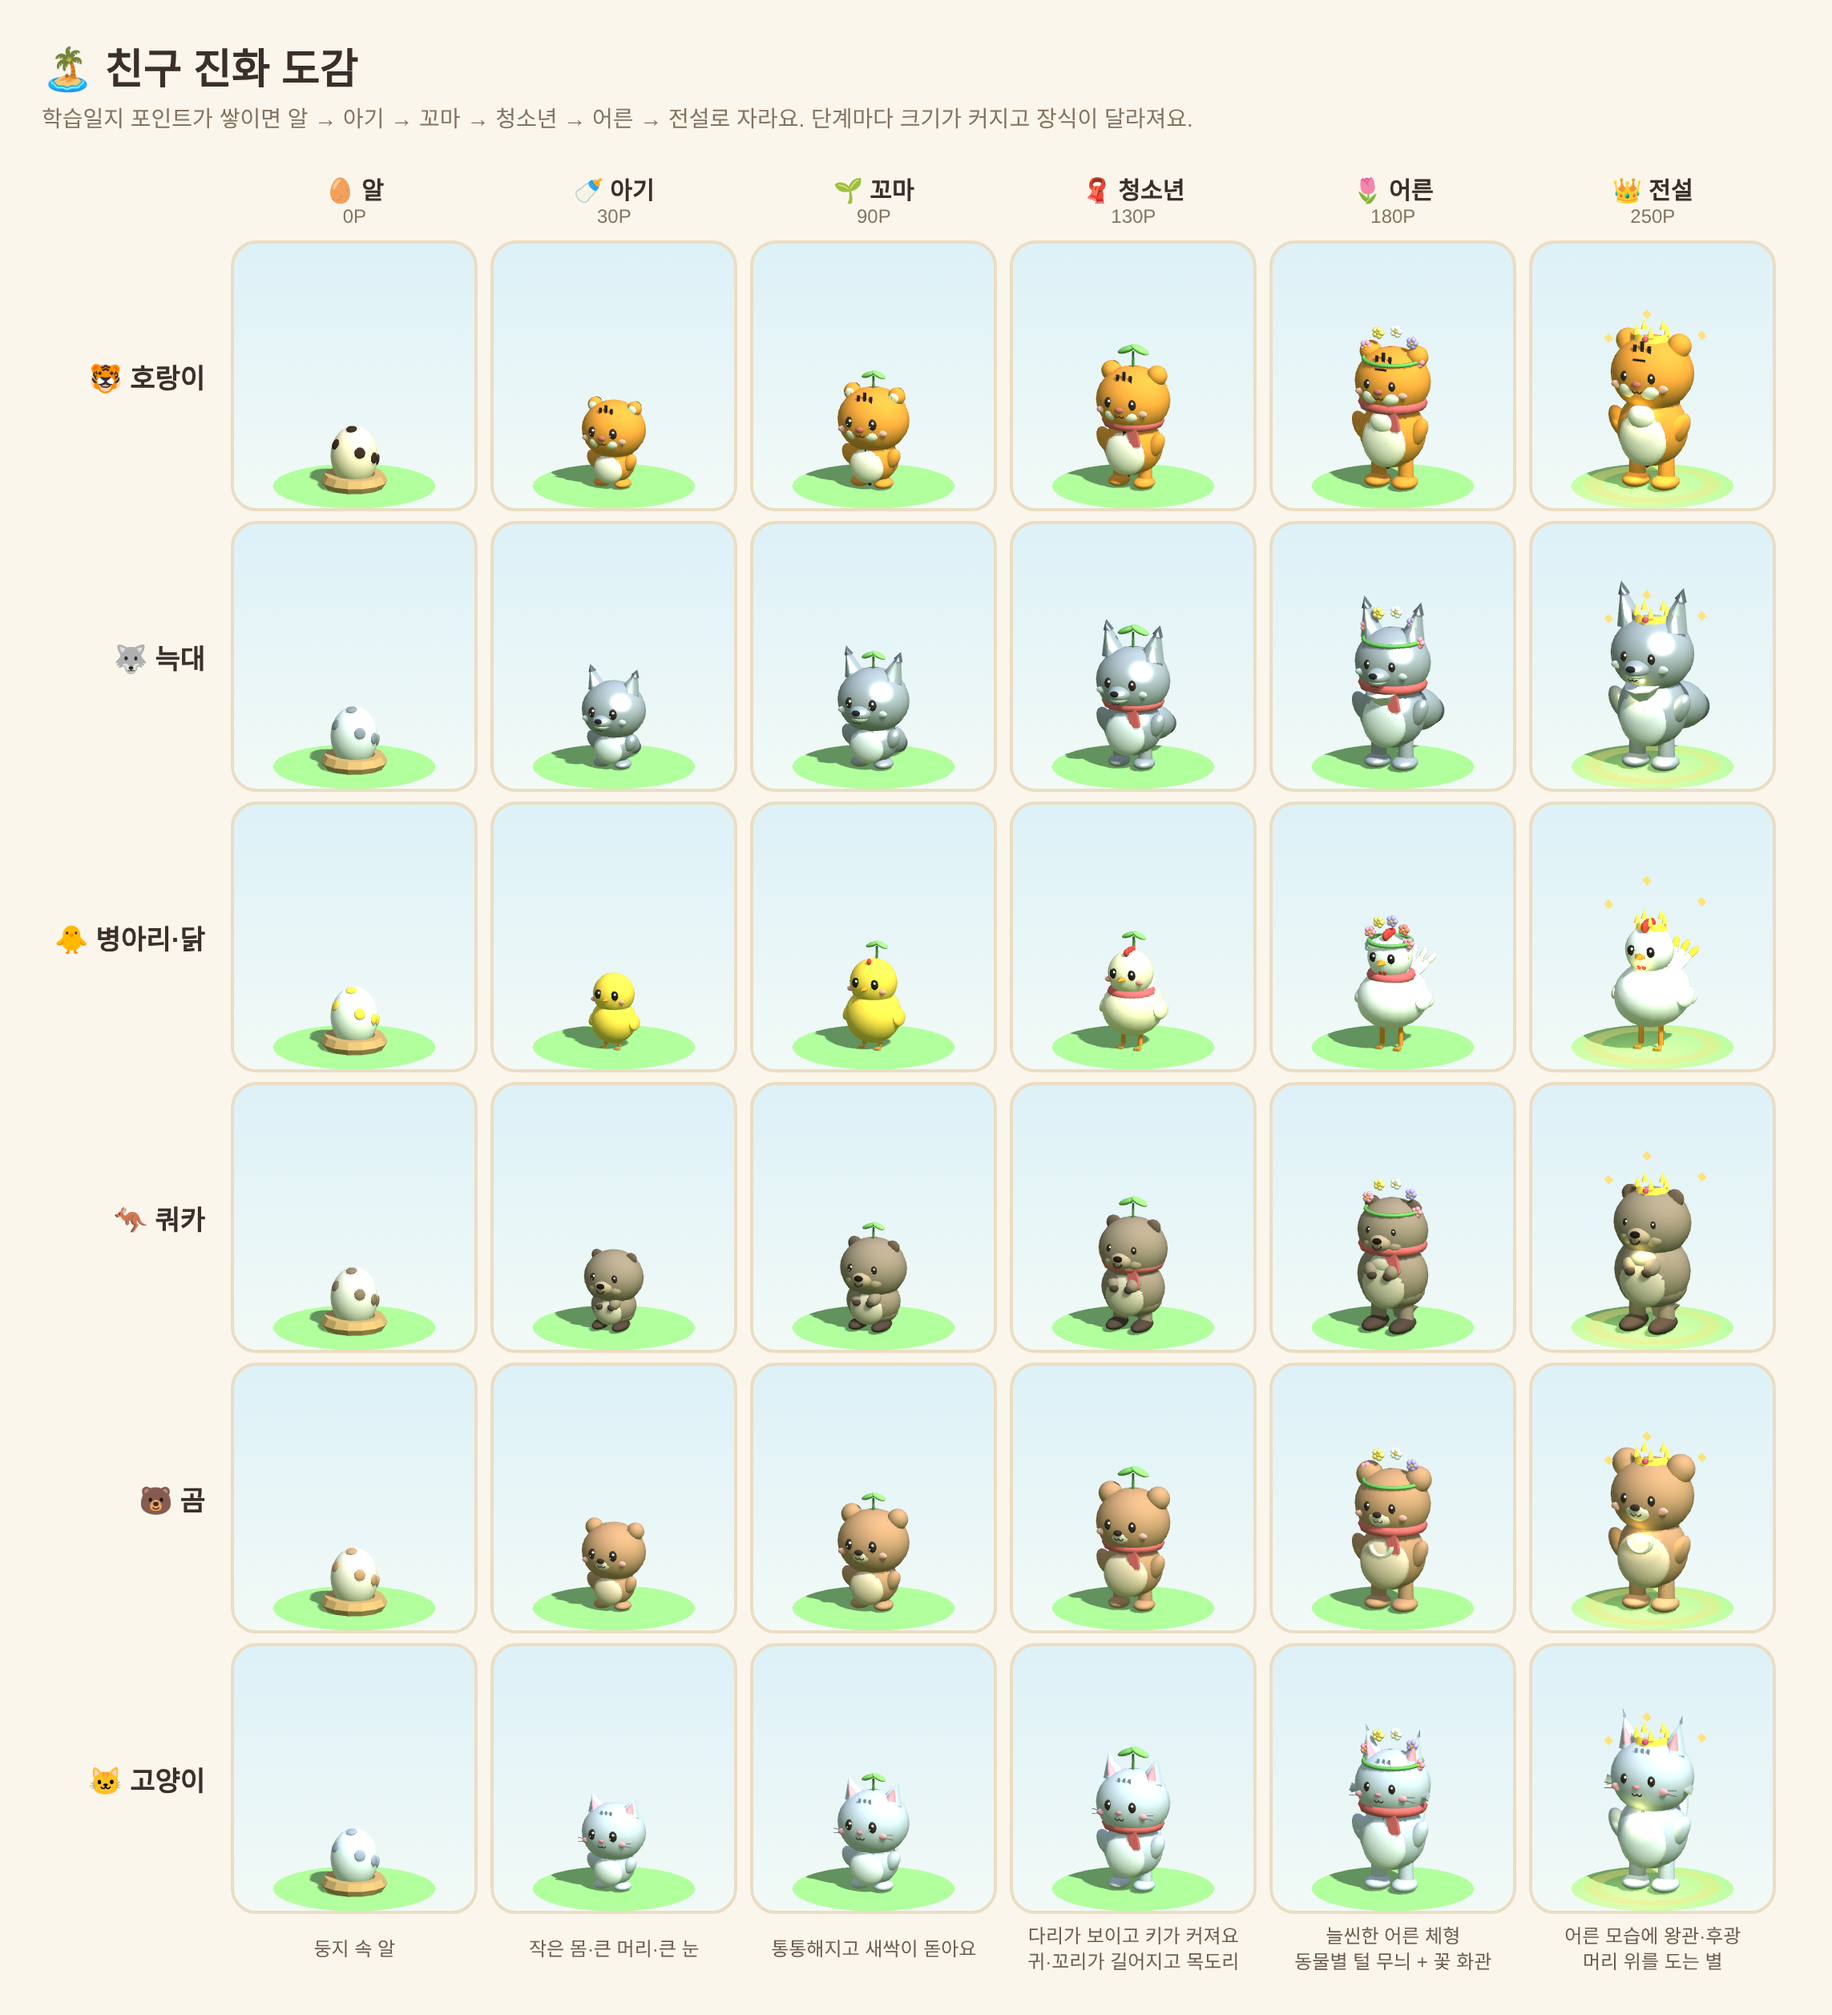
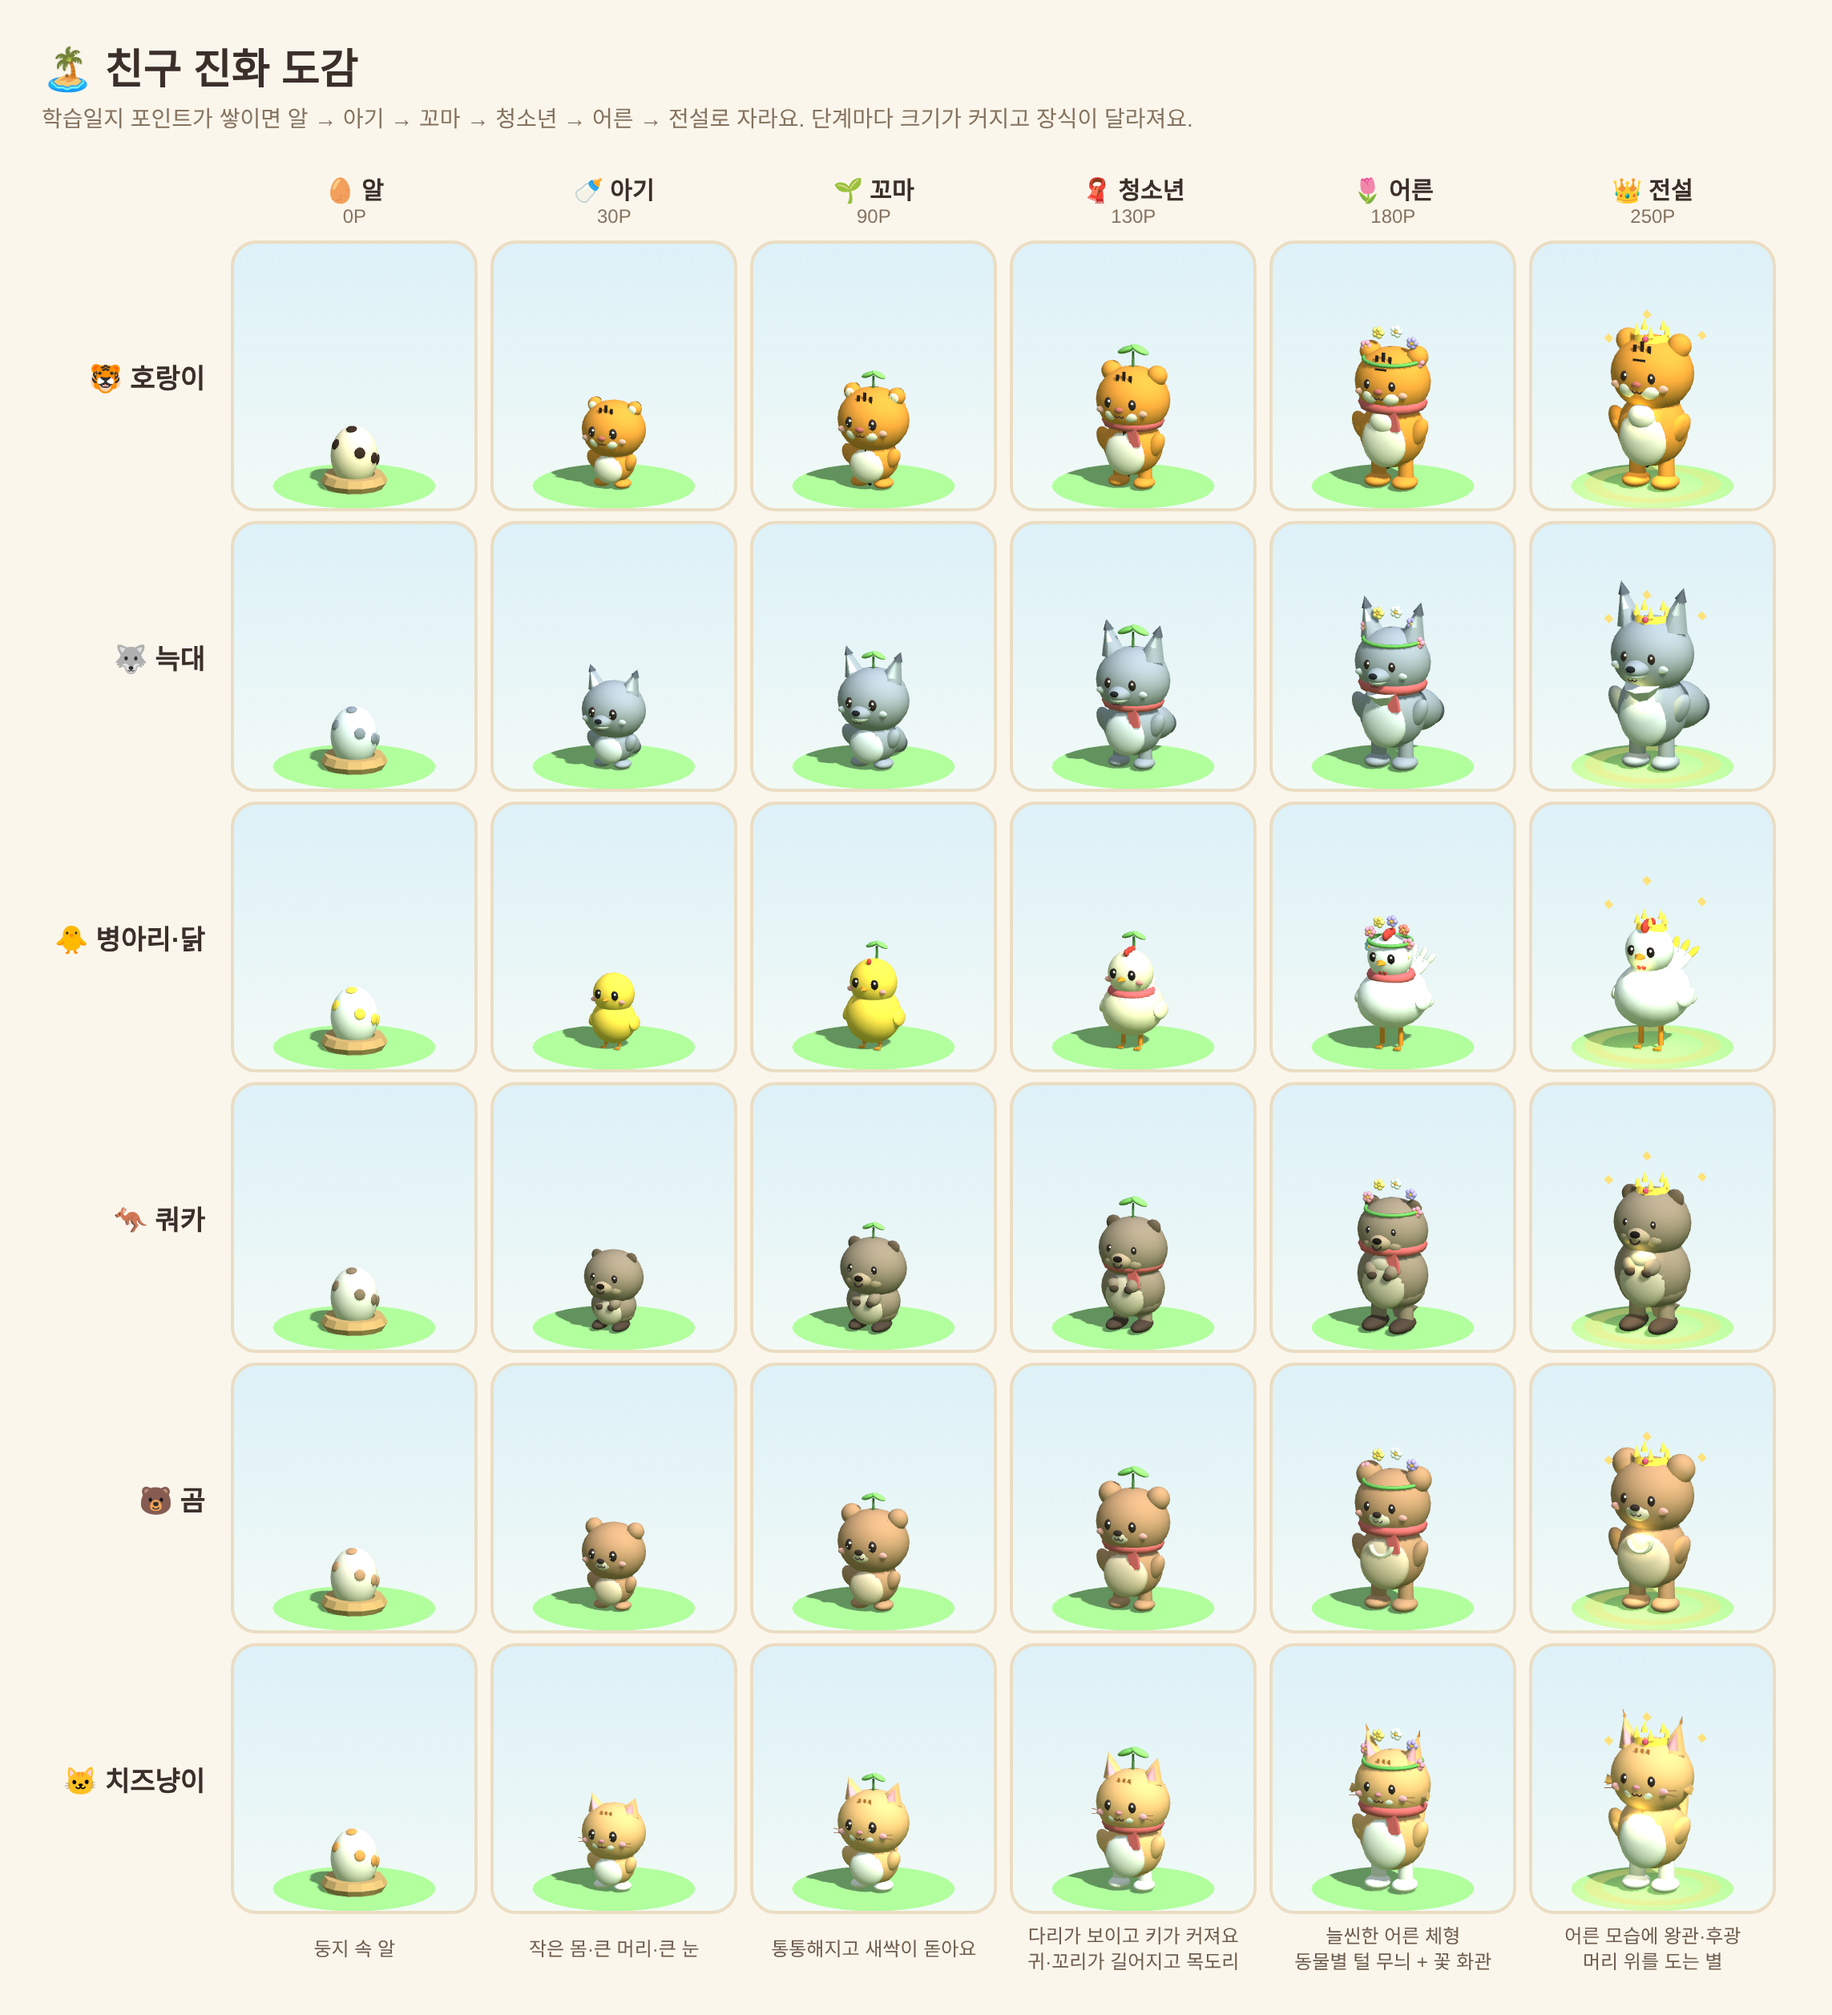
늑대 광택 빼기, 고양이를 치즈냥이로
- 늑대: 다른 친구들과 같은 무광 회은색
- 치즈냥이: 연한 주황 + 주황 줄무늬(검은 줄 없음), 하얀 주둥이·가슴·양말 발 → 진한 주황·검은 줄무늬·둥근 귀의 호랑이와 구분

Claude-Session: https://claude.ai/code/session_01XAbtJ4oXmSkLcZTaopT91E

diff --git a/index.html b/index.html
@@ -3946,7 +3946,7 @@
         wolf:   { body: 0x9fa5ac, belly: 0xe6e8eb, accent: 0xd2d6db, nose: 0x26282c, egg: 0xe8eaec, spot: 0x878e96, tip: 0x5b6169, muzzle: 0xe6e8eb },
         chick:  { chick: 0xffd54a, chickBelly: 0xffeb9c, teen: 0xfff1c9, teenBelly: 0xfffaea, body: 0xfbfaf4, belly: 0xffffff, feather: 0xe8e2d2, beak: 0xf59a2c, comb: 0xe2463c, blush: 0xffa8a0, egg: 0xfffdf6, spot: 0xffd54a },
         quokka: { body: 0x9a8670, belly: 0xd8c6ad, accent: 0xd9a090, nose: 0x231c18, egg: 0xefe6d8, spot: 0x8a735c, muzzle: 0xb79d80, paw: 0x4f4035, rim: 0x6a5846 },
-        cat:    { body: 0xc9d0dd, belly: 0xf4f6fa, accent: 0xf2a7b5, nose: 0xf08aa0, egg: 0xeef1f7, spot: 0x9aa4b9, stripe: 0x8f99ae },
+        cat:    { body: 0xf3b878, belly: 0xfffaf2, accent: 0xf5a9b0, nose: 0xf08aa0, egg: 0xfff4e4, spot: 0xe59a50, stripe: 0xd9843a, whisker: 0x9a6a44 },
         bear:   { body: 0xc1916a, belly: 0xe8cdae, accent: 0xf0a8a0, nose: 0x3a2e2a, egg: 0xf6e7d6, spot: 0xc1916a, muzzle: 0xf1dec6 },
         fox:    { body: 0xf09b52, belly: 0xfff7ec, accent: 0xf6b3a8, nose: 0x3a2e2a, egg: 0xffebd8, spot: 0xf09b52, tip: 0x5a3a28 }
       };
@@ -4007,6 +4007,7 @@
         brows.visible = false; head.add(brows); parts.brows = brows;
         if (!qk) [-.38, .38].forEach(function (x) { head.add(ball(.1, S.accent, x, -.1, .48, 1, .6, .4)); });
         if (species === 'bear') head.add(ball(.2 * (adult ? 1.12 : 1), S.muzzle, 0, -.12, .5, 1, .75, .6));
+        if (species === 'cat') { head.add(ball(.14, S.belly, -.12, -.14, .5, 1, .78, .6)); head.add(ball(.14, S.belly, .12, -.14, .5, 1, .78, .6)); head.add(ball(.24, S.belly, 0, -.2, .3, 1.3, .7, .8)); }
         if (species === 'fox' || species === 'tiger') { const m = adult ? 1.12 : 1, r = species === 'tiger' ? .17 : .2; head.add(ball(r * m, S.belly, -.15, -.14, .48, 1, .78, .6)); head.add(ball(r * m, S.belly, .15, -.14, .48, 1, .78, .6)); }
         if (qk) {
           // 쿼카: 짧고 동그란 주둥이 + 통통한 볼
@@ -4045,7 +4046,7 @@
         }
         if (species === 'cat') {
           [-.1, 0, .1].forEach(function (x) { head.add(mesh(new T.BoxGeometry(.04, .14, .02), sm(S.stripe), x, .45, .38)); });
-          const wm = new T.MeshBasicMaterial({ color: 0x5e6780 });
+          const wm = new T.MeshBasicMaterial({ color: S.whisker || 0x5e6780 });
           [[-1, .0], [-1, -.06], [1, 0], [1, -.06]].forEach(function (w) { const l = new T.Mesh(new T.BoxGeometry(.24 + (adult ? .06 : 0), .01, .01), wm); l.position.set(w[0] * .46, -.08 + w[1], .45); l.rotation.z = w[0] * (w[1] ? -.12 : .12); head.add(l); });
           // 어른 고양이: 볼 털
           if (adult) [-1, 1].forEach(function (s) { const c = mesh(new T.ConeGeometry(.09, .22, 4), sm(S.body), s * .6, -.12, .12); c.rotation.z = s * Math.PI / 2; head.add(c); });
@@ -4094,7 +4095,7 @@
           });
         }
         // 다리·발 (청소년부터 다리가 보여요)
-        const sockC = species === 'fox' && stage >= 3 ? S.tip : S.body;
+        const sockC = species === 'fox' && stage >= 3 ? S.tip : (species === 'cat' ? S.belly : S.body);
         const mkFoot = function (x) {
           const f = new T.Group(); f.position.set(x, 0, .06);
           f.add(ball(.17 * (adult ? 1.12 : 1), qk ? S.paw : sockC, 0, .1, qk ? .08 : 0, qk ? .85 : 1, .55, qk ? 1.9 : 1.3));
@@ -4114,7 +4115,7 @@
           body.add(ball(.42, S.tip, 0, cy + .12, -.2, 1.05 * tSX, .7, .8));
         }
         if (adult && species === 'quokka') body.add(ball(.2, S.belly, 0, cy + ry * .45, .34 * tSX, 1.1, .8, .6));
-        if (adult && species === 'cat') { [-.25, 0, .25].forEach(function (z) { const st = mesh(new T.TorusGeometry(.42 * tSX, .03, 4, 16, Math.PI * .7), sm(S.stripe), 0, cy + z * .5 + .05, -.05); st.rotation.y = Math.PI / 2; st.rotation.z = Math.PI * .65; body.add(st); }); }
+        if (species === 'cat' && stage >= 2) { (adult ? [-.25, 0, .25] : [-.15, .15]).forEach(function (z) { const st = mesh(new T.TorusGeometry(.42 * tSX, .028, 4, 16, Math.PI * .6), sm(S.stripe), 0, cy + z * .5 + .05, -.06); st.rotation.y = Math.PI / 2; st.rotation.z = Math.PI * .7; body.add(st); }); }
         if (adult && species === 'bear') { const moon = mesh(new T.TorusGeometry(.17, .045, 6, 14, Math.PI), sm(0xf6ead6), 0, cy + ry * .5, .44 * tSX); moon.rotation.z = Math.PI; body.add(moon); }
         if (adult && species === 'fox') { const ruff = mesh(new T.ConeGeometry(.24, .4, 8), sm(S.belly), 0, cy + ry * .45, .3 * tSX); ruff.rotation.x = Math.PI + .25; body.add(ruff); }
         // 꼬리 (자랄수록 커져요)
@@ -4186,7 +4187,6 @@
           for (let i = 0; i < 3; i++) { const a = i / 3 * Math.PI * 2; orbit.add(mesh(new T.OctahedronGeometry(.07, 0), new T.MeshBasicMaterial({ color: 0xffe27a }), Math.cos(a) * .75, 0, Math.sin(a) * .75, false)); }
           g.add(orbit); parts.orbit = orbit;
         }
-        if (species === 'wolf') silverize(g, [S.body, S.tip, S.belly, S.muzzle]);
         g.scale.setScalar(STAGE_SCALE[stage]);
         return parts;
       }
@@ -5483,7 +5483,7 @@
       wolf:   { name: '늑대',   emoji: '🐺', suggest: '달빛' },
       chick:  { name: '병아리', emoji: '🐥', suggest: '삐약이' },
       bear:   { name: '곰',     emoji: '🐻', suggest: '꼬미' },
-      cat:    { name: '고양이', emoji: '🐱', suggest: '나비' },
+      cat:    { name: '치즈냥이', emoji: '🐱', suggest: '치즈' },
       quokka: { name: '쿼카',   emoji: '🦘', suggest: '스마일' }
     };
     const PET_SPECIES_ORDER = ['tiger', 'wolf', 'chick', 'bear', 'cat', 'quokka'];

diff --git a/README.md b/README.md
@@ -1,6 +1,6 @@
 # 🏝 영어 학습 섬 (English Island)
 
-학습일지를 3D 섬 게임으로 만든 웹앱이에요. 학생은 섬에서 동물 친구(호랑이·늑대·병아리(→닭)·곰·고양이·쿼카)를 키우며 일지를 쓰고,
+학습일지를 3D 섬 게임으로 만든 웹앱이에요. 학생은 섬에서 동물 친구(호랑이·늑대·병아리(→닭)·곰·치즈냥이·쿼카)를 키우며 일지를 쓰고,
 우체통·게시판·책장·유리병·오락기·책상·달력·보물상자를 눌러 각 기능을 써요. 같은 기능을 오른쪽 글자 메뉴로도 열 수 있어요.
 
 **조작**: 방향키(또는 WASD)로 친구 움직이기 · Shift 누르면 달리기 · 사물 앞에서 Space/Enter로 열기 · 마우스 드래그로 섬 돌리기 · 휠로 확대
